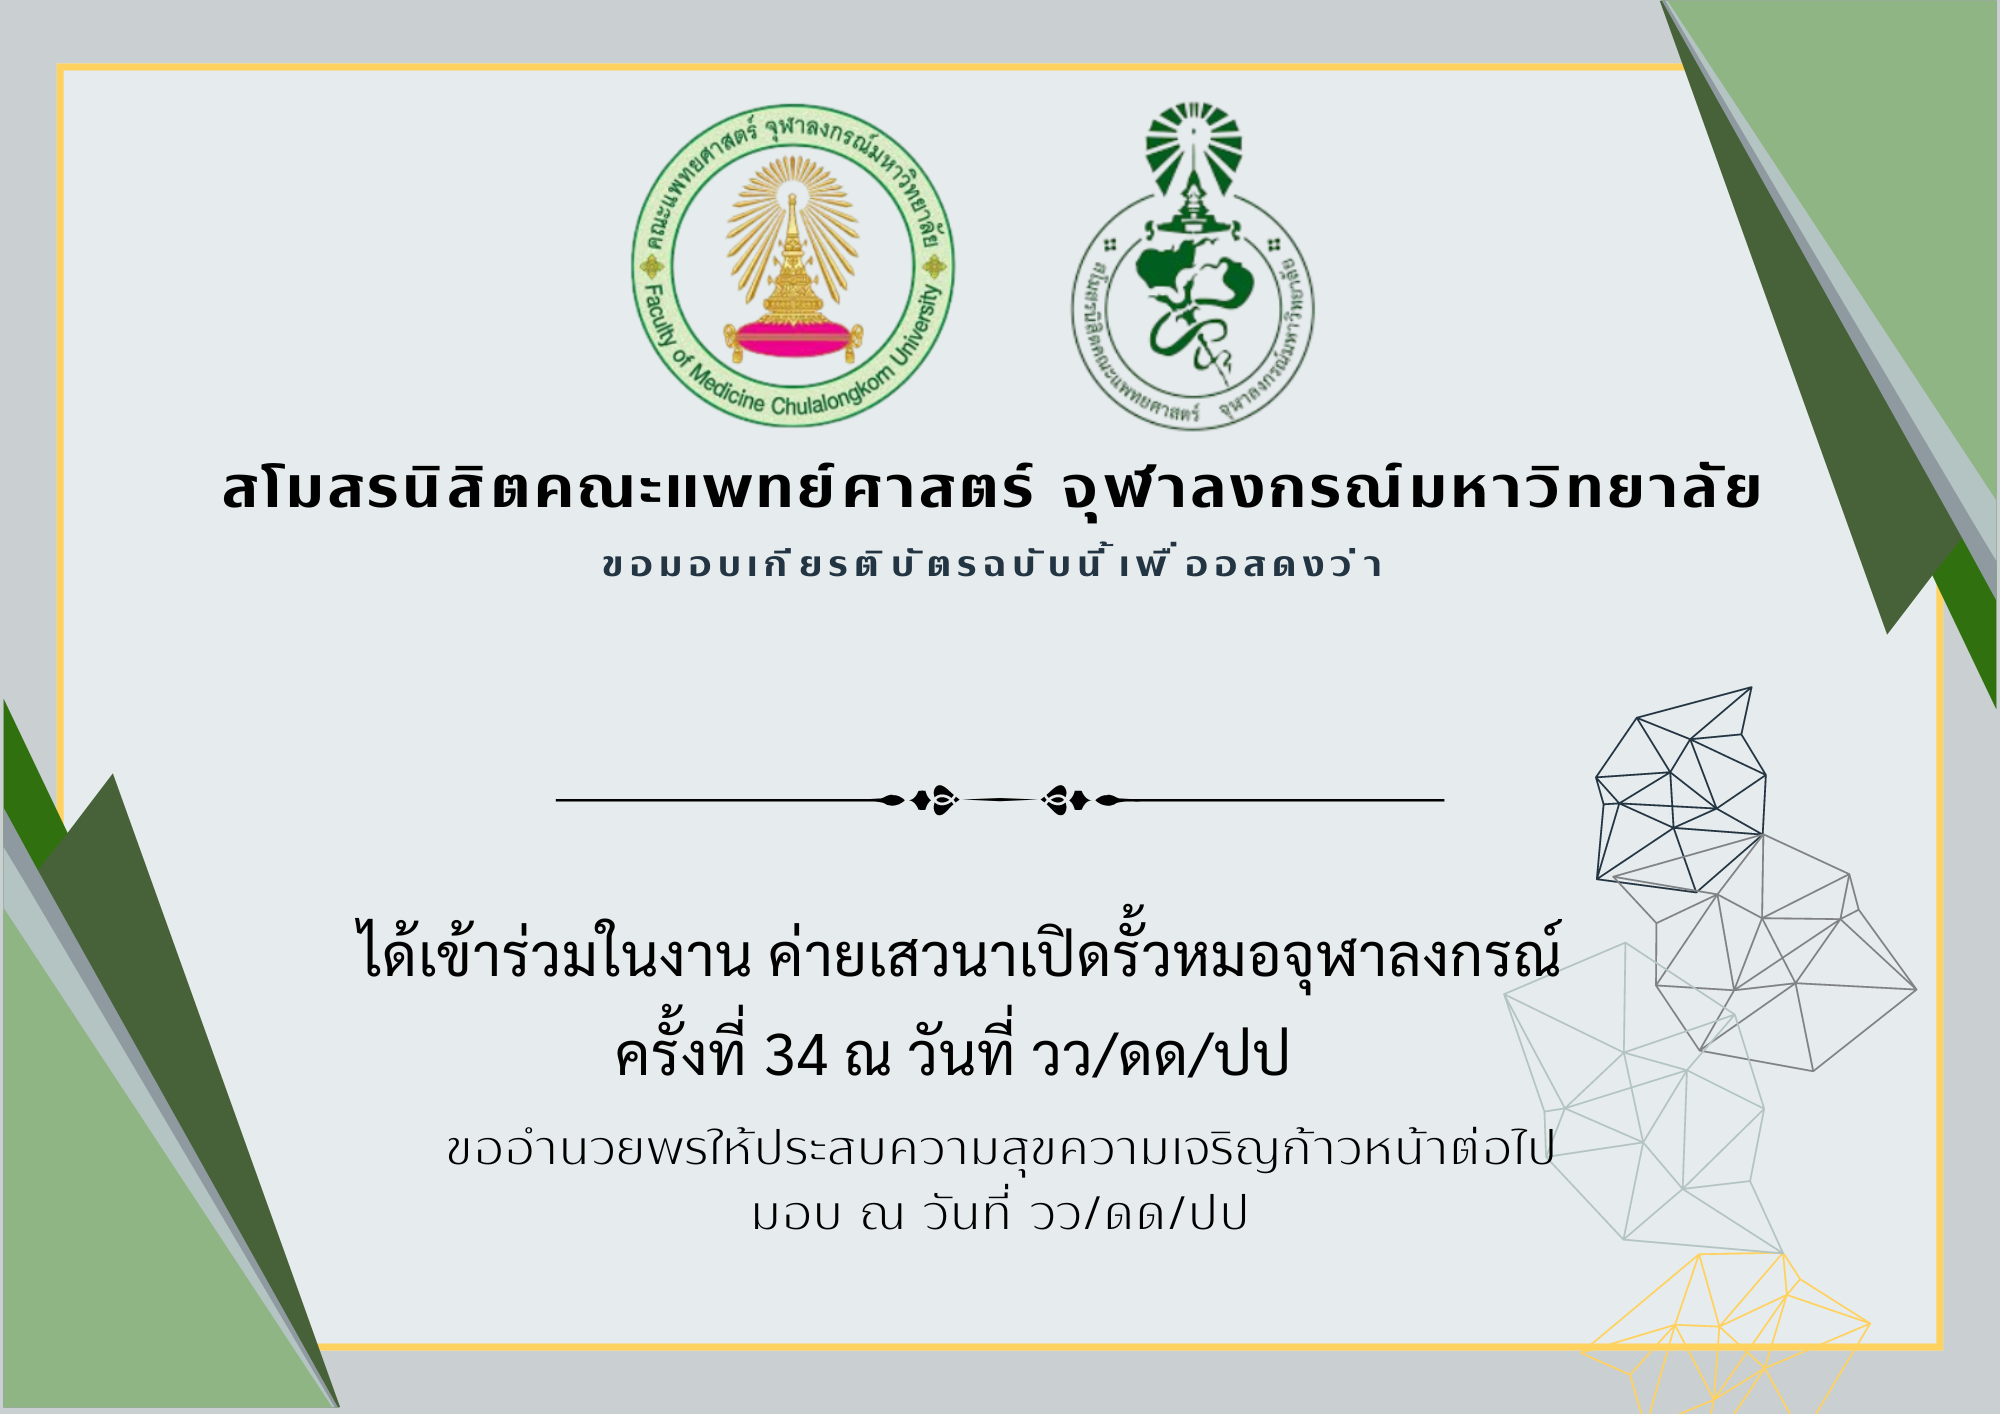
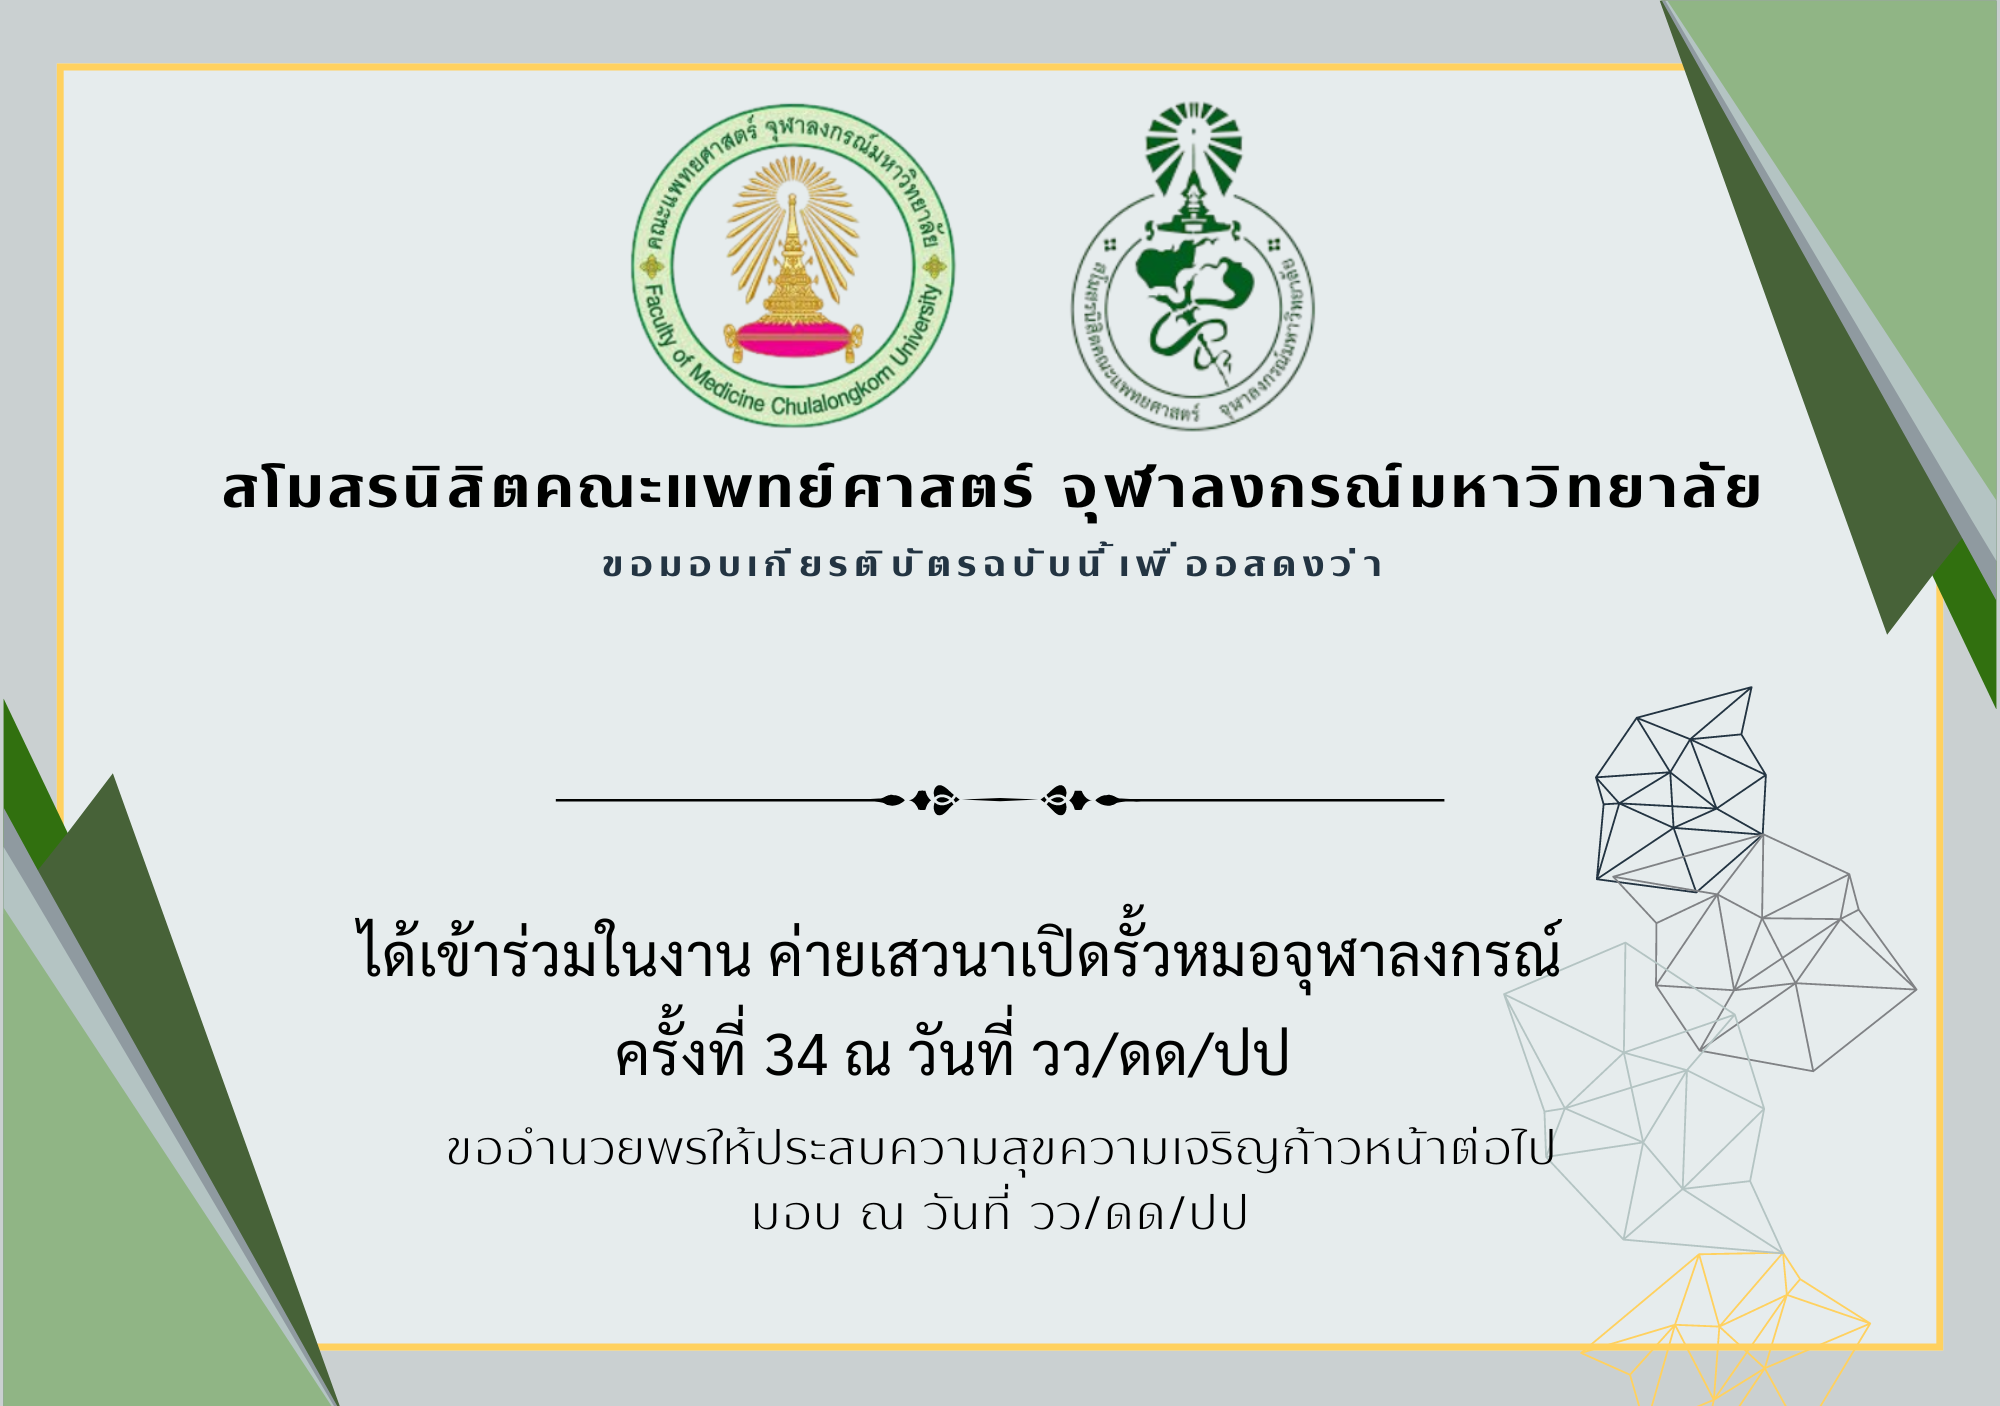
Feat: certificate finished functionally waitting for adjustment

diff --git a/src/components/certificate/modal.tsx b/src/components/certificate/modal.tsx
@@ -1,8 +1,9 @@
 type ModalProps = {
-    isOpen: boolean;
-    handleClose: () => void;
-    children?: React.ReactNode; // if you want to include children
-  };
+  isOpen: boolean;
+  handleClose: () => void;
+  children?: React.ReactNode; // if you want to include children
+};
+
 const Modal = ({ isOpen, handleClose, ...props }: ModalProps) => {
   return (
     <>
@@ -10,14 +11,12 @@ const Modal = ({ isOpen, handleClose, ...props }: ModalProps) => {
         items-center justify-center transform transition-all duration-300 ease-[cubic-bezier(0.
         175,0.885,0.32,1.275)] ${isOpen ? 'opacity-100 visible translate-y-0' : 
         'opacity-0 invisible -translate-y-full'}`} onClick={handleClose}>
-      <div className={`bg-white p-12`}>
-          {props.children} {/* Updated to place comment inside braces */}
-        </div>
-        <div className={`bg-white p-12`} onClick={e => e.stopPropagation()}>
-          {props.children} {/* Updated to place comment inside braces */}
+        <div className={` p-6 relative z-10 w-[1100px] h-[670px]`} onClick={e => e.stopPropagation()}> {/* Set width and height to match the image */}
+          {props.children} {/* Updated to prevent click propagation */}
         </div>
       </div>
     </>
   )
 }
-export default Modal
+
+export default Modal;

diff --git a/src/components/certificate/certificate.tsx b/src/components/certificate/certificate.tsx
@@ -17,8 +17,8 @@ const Certificate = ({
       // Check if current is not null
       html2canvas(certificateRef.current).then((canvas) => {
         const imgData = canvas.toDataURL("image/png");
-        const pdf = new jsPDF("l", "mm", [1000, 670]);
-        pdf.addImage(imgData, "PNG", 0, 0, 1000, 667);
+        const pdf = new jsPDF("l", "mm", [4000, 2821]);
+        pdf.addImage(imgData, "PNG", 0, 0, 4000, 2821);
         pdf.save(`${name}_${lastname}_certificate.pdf`);
       });
     } else {
@@ -33,10 +33,10 @@ const Certificate = ({
         className="relative bg-gray-800 h-screen flex items-center justify-center text-white overflow-auto"
       >
         <Image
-          src="/images/Certificatetemplate.png"
+          src="/images/Certificatetemplate2.png"
           alt="placeholder"
           layout="fill"
-          objectFit="cover"
+          objectFit="contain" // Change to contain to maintain aspect ratio
           className="absolute inset-0 z-0"
         />
         <p className="relative z-10 text-blue-500 text-5xl font-bold italic my-4">

diff --git a/src/components/Video/slider.tsx b/src/components/Video/slider.tsx
@@ -22,7 +22,7 @@ export default function Slider() {
   return (
     <>
       <div>
-        <div className="flex items-center justify-center h-[80vh] bg-cyan-950">
+        <div className="flex items-center justify-center h-[90vh] bg-cyan-950">
           <Swiper
             ref={swiperRef} // Attach the ref to Swiper
             initialSlide={1} // Set the initial slide to the first item

diff --git a/src/app/VideoPlaylist/page.tsx b/src/app/VideoPlaylist/page.tsx
@@ -50,7 +50,7 @@ const Page = () => {
             </button> {/* Logout button added */}
           </div>
           <Slider />
-          <div className="flex justify-center bg-cyan-950">
+          <div className="flex justify-center bg-cyan-950 relative z-10">
             <Downloadcertificate 
               name={user.firstname} 
               lastname={user.lastname} 
